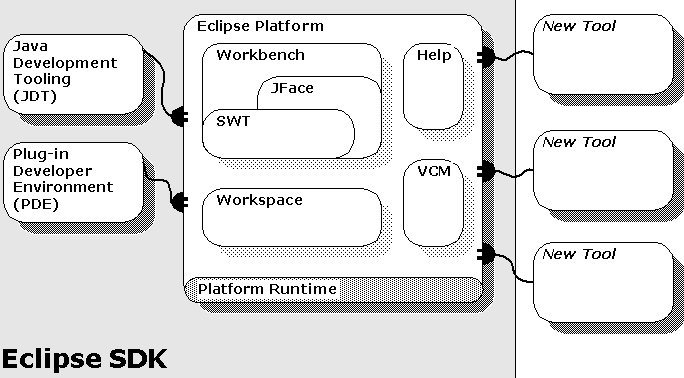
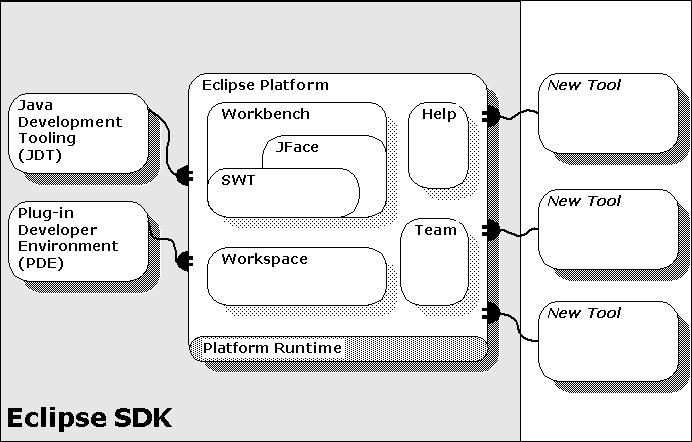
VCM->Team

diff --git a/bundles/org.eclipse.platform.doc.isv/guide/arch.htm b/bundles/org.eclipse.platform.doc.isv/guide/arch.htm
@@ -46,7 +46,7 @@ how new tools can be added to the platform by building plug-ins that extend the
 system.</p>
 
 
-<p><img border="0" src="images/sdk-arch.jpg" width="684" height="378"></p>
+<p><img border="0" src="images/sdk-arch.jpg" width="692" height="442"></p>
 
 
     <p >&nbsp;</p>
